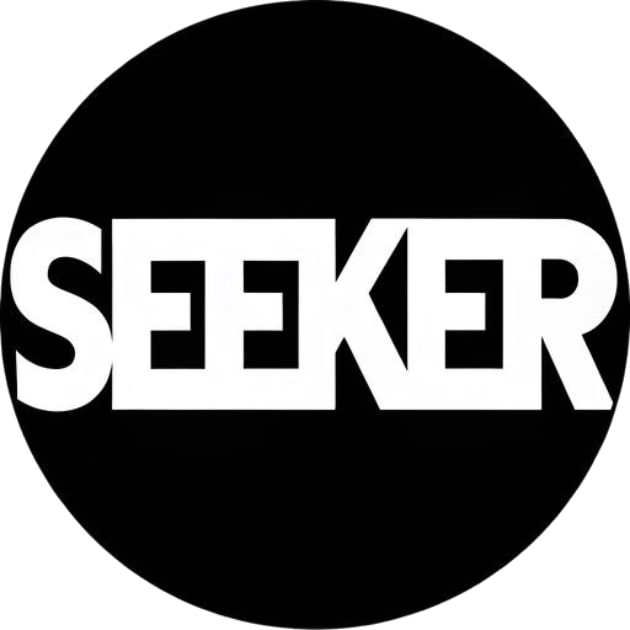
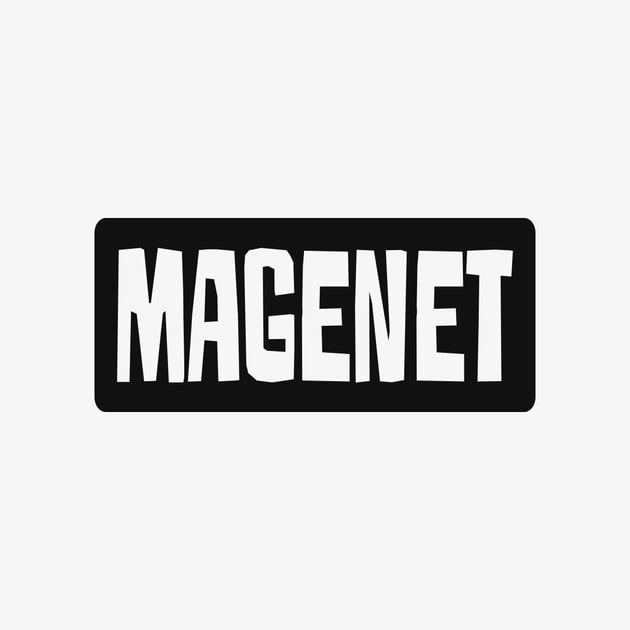
c42

diff --git a/src/index.html b/src/index.html
@@ -2,12 +2,12 @@
 <html lang="en">
 <head>
   <meta charset="utf-8">
-  <title>Seeker - Discover Movies via Torrent</title>
+  <title>Magenet - Discover Movies via Torrent</title>
   <base href="/">
   <meta name="viewport" content="width=device-width, initial-scale=1.0, maximum-scale=5.0, user-scalable=yes">
-  <meta name="description" content="Seeker - Your ultimate destination to discover, stream, and download movies via torrent. Find the latest releases and classic films in HD quality.">
+  <meta name="description" content="Magenet - Your ultimate destination to discover, stream, and download movies via torrent. Find the latest releases and classic films in HD quality.">
   <meta name="keywords" content="yts, yify, yify movies, yts movies, yts torrents, yify torrents, yts mx, yts.mx, yifi, yts mx proxy, yts. mx, yts.com.mx, movie torrent site, best torrent site 2025, download movies torrent 1080p, horror movie torrent download, torrent sites in India, torrent movies, movie streaming, HD movies, free movies, movie download, watch movies online, latest movies, yts download, yify download, yts proxy, yify proxy, torrent download, HD torrent, 4k movies, 1080p movies, 720p movies, bluray movies, yts alternative, yify alternative, free movie download">
-  <meta name="author" content="Seeker">
+  <meta name="author" content="Magenet">
   <meta name="robots" content="index, follow">
   <meta name="revisit-after" content="7 days">
   
@@ -21,14 +21,14 @@
   <!-- Open Graph / Facebook -->
   <meta property="og:type" content="website">
   <meta property="og:url" content="https://yourseekerapp.com/">
-  <meta property="og:title" content="Seeker - Discover Movies via Torrent">
+  <meta property="og:title" content="Magenet - Discover Movies via Torrent">
   <meta property="og:description" content="Your ultimate destination to discover, and download movies via torrent. Find the latest releases and classic films in HD quality.">
   <meta property="og:image" content="https://yourseekerapp.com/assets/og-image.jpg">
   
   <!-- Twitter -->
   <meta property="twitter:card" content="summary_large_image">
   <meta property="twitter:url" content="https://yourseekerapp.com/">
-  <meta property="twitter:title" content="Seeker - Discover Movies via Torrent">
+  <meta property="twitter:title" content="Magenet - Discover Movies via Torrent">
   <meta property="twitter:description" content="Your ultimate destination to discover, and download movies via torrent. Find the latest releases and classic films in HD quality.">
   <meta property="twitter:image" content="https://yourseekerapp.com/assets/og-image.jpg">
   
@@ -36,7 +36,7 @@
   <meta name="theme-color" content="#1a1a1a">
   <meta name="apple-mobile-web-app-capable" content="yes">
   <meta name="apple-mobile-web-app-status-bar-style" content="black-translucent">
-  <meta name="apple-mobile-web-app-title" content="Seeker">
+  <meta name="apple-mobile-web-app-title" content="Magenet">
   
   <!-- Icons -->
   <link rel="stylesheet" href="https://cdnjs.cloudflare.com/ajax/libs/font-awesome/6.4.0/css/all.min.css">

diff --git a/src/app/app.component.html b/src/app/app.component.html
@@ -6,7 +6,7 @@
     <nav class="navbar">
       <div class="logo-container">
         <a routerLink="/" class="logo">
-          <span class="logo-text">Seeker</span>
+          <span class="logo-text">Magenet</span>
           <span class="logo-underline"></span>
         </a>
       </div>
@@ -49,7 +49,7 @@
     </div>
     
     <div class="footer-bottom">
-      <p>&copy; {{ currentYear }} Seeker. All rights reserved.</p>
+      <p>&copy; {{ currentYear }} Magenet. All rights reserved.</p>
     </div>
   </footer>
 </div>

diff --git a/src/app/app.component.ts b/src/app/app.component.ts
@@ -11,7 +11,7 @@ import { Subscription, fromEvent } from 'rxjs';
   styleUrls: ['./app.component.css']
 })
 export class AppComponent implements OnInit, OnDestroy {
-  title = 'SeekerAI';
+  title = 'Magenet';
   currentYear: number = new Date().getFullYear();
   showBackToTop = false;
   private scrollSubscription?: Subscription;

diff --git a/README.md b/README.md
@@ -1,4 +1,4 @@
-# Seeker
+# Magenet
 
 This project was generated with [Angular CLI](https://github.com/angular/angular-cli) version 15.2.11.
 
